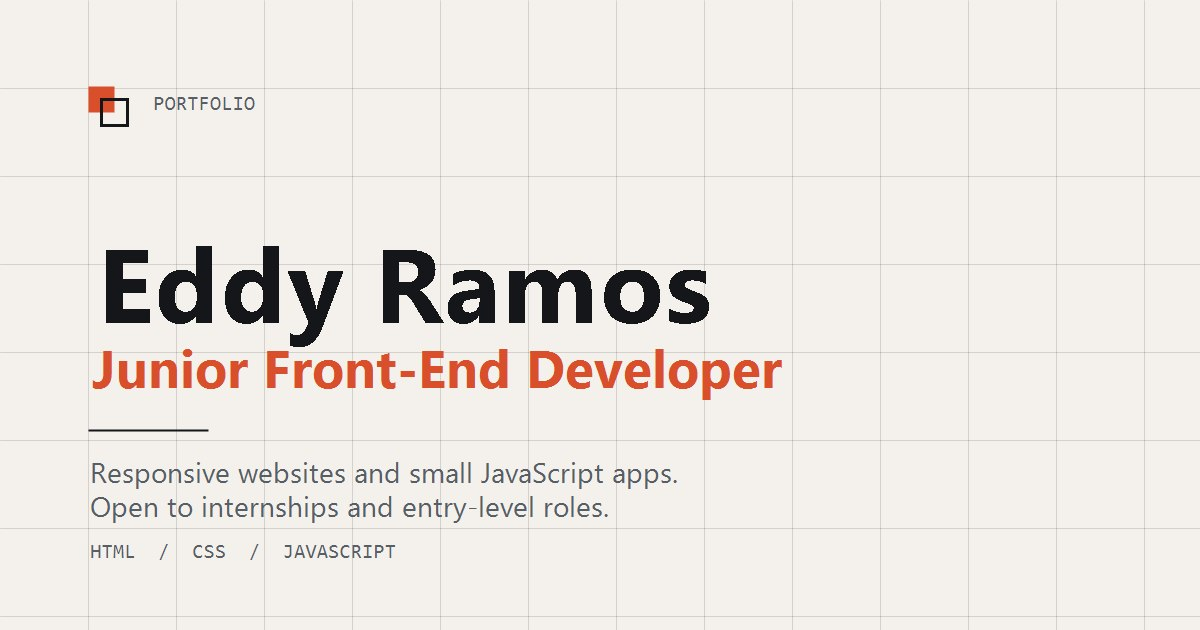
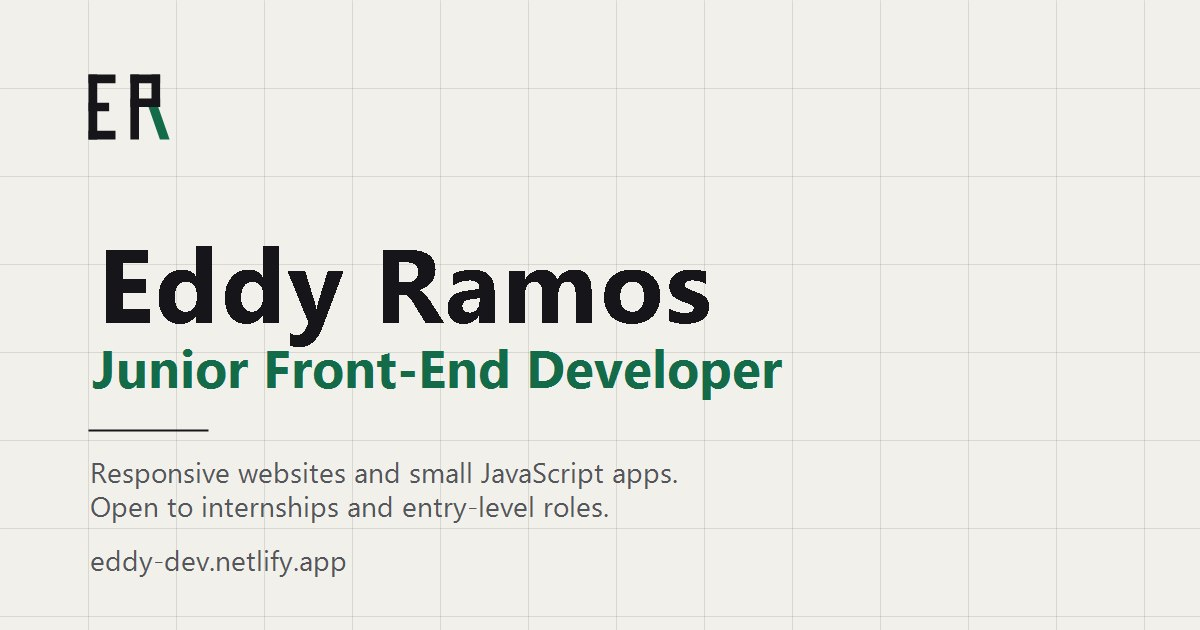
New hero line, and an ER monogram to replace the two squares
The old headline counted projects, which read as a device rather than
something a person would say. Replaced with a plain statement of what he
does and what he wants.

The mark is now an ER monogram built from rectangles on a 30 by 24 grid,
with the leg of the R in the accent. Same geometry drives the header, the
footer, the favicon, the touch icon and the social cover, so they cannot
drift apart. The accent reaches into the <use> shadow tree through a custom
property, which a class selector cannot do.

Changed region(s): [[0.0617, 0.5429, 0.6475, 0.6333], [0.0617, 0.1206, 0.2158, 0.2413], [0.0617, 0.8444, 0.3392, 0.9048]]

diff --git a/index.html b/index.html
@@ -90,12 +90,27 @@
     <symbol id="i-close" viewBox="0 0 24 24" fill="none" stroke="currentColor" stroke-width="2" stroke-linecap="round">
       <path d="M6 6l12 12M18 6L6 18"/>
     </symbol>
+    <!-- ER monogram. Both letters are built from rectangles on the same grid,
+         and the leg of the R picks up the accent colour. -->
+    <symbol id="i-logo" viewBox="0 0 30 24">
+      <g fill="currentColor">
+        <rect x="0" y="0" width="3.2" height="24"/>
+        <rect x="0" y="0" width="10" height="3.2"/>
+        <rect x="0" y="10.4" width="7.6" height="3.2"/>
+        <rect x="0" y="20.8" width="10" height="3.2"/>
+        <rect x="15.5" y="0" width="3.2" height="24"/>
+        <rect x="15.5" y="0" width="11" height="3.2"/>
+        <rect x="23.3" y="0" width="3.2" height="12"/>
+        <rect x="15.5" y="8.8" width="11" height="3.2"/>
+      </g>
+      <polygon points="22.2,12 25.8,12 30,24 26.4,24" fill="var(--logo-accent, currentColor)"/>
+    </symbol>
   </svg>
 
   <header class="masthead" id="masthead">
     <div class="shell masthead-inner">
       <a href="#top" class="brand" aria-label="Eddy Ramos, back to top">
-        <span class="brand-mark" aria-hidden="true"></span>
+        <svg class="brand-mark" aria-hidden="true"><use href="#i-logo"/></svg>
         <span class="brand-name">Eddy Ramos</span>
       </a>
 
@@ -143,9 +158,9 @@
     <section class="hero" id="top">
       <div class="shell hero-grid">
         <h1 class="hero-title">
-          <span class="line"><span>Seven projects in.</span></span>
-          <span class="line"><span>Looking for the first</span></span>
-          <span class="line"><span>one with a <em>team</em>.</span></span>
+          <span class="line"><span>I build websites.</span></span>
+          <span class="line"><span>I want to build them</span></span>
+          <span class="line"><span>with a <em>team</em>.</span></span>
         </h1>
 
         <div class="hero-copy">
@@ -800,7 +815,7 @@
   <footer class="site-footer">
     <div class="shell footer-inner">
       <div class="footer-identity">
-        <span class="brand-mark" aria-hidden="true"></span>
+        <svg class="brand-mark" aria-hidden="true"><use href="#i-logo"/></svg>
         <p><strong>Eddy Ramos</strong><br>Junior front-end developer</p>
       </div>
 

diff --git a/css/style.css b/css/style.css
@@ -263,22 +263,14 @@ a {
   text-decoration: none;
 }
 
+/* ER monogram. The custom property reaches into the <use> shadow tree,
+   which a plain class selector cannot do. */
 .brand-mark {
-  position: relative;
-  width: 12px;
-  height: 12px;
+  width: 25px;
+  height: 20px;
   flex: none;
-  background: var(--accent);
-}
-
-.brand-mark::after {
-  content: "";
-  position: absolute;
-  top: 5px;
-  left: 5px;
-  width: 12px;
-  height: 12px;
-  border: 1px solid var(--ink);
+  color: var(--ink);
+  --logo-accent: var(--accent);
 }
 
 .primary-nav {
@@ -1246,7 +1238,7 @@ textarea {
 }
 
 .footer-identity .brand-mark {
-  margin-top: 6px;
+  margin-top: 5px;
 }
 
 .footer-identity p {
